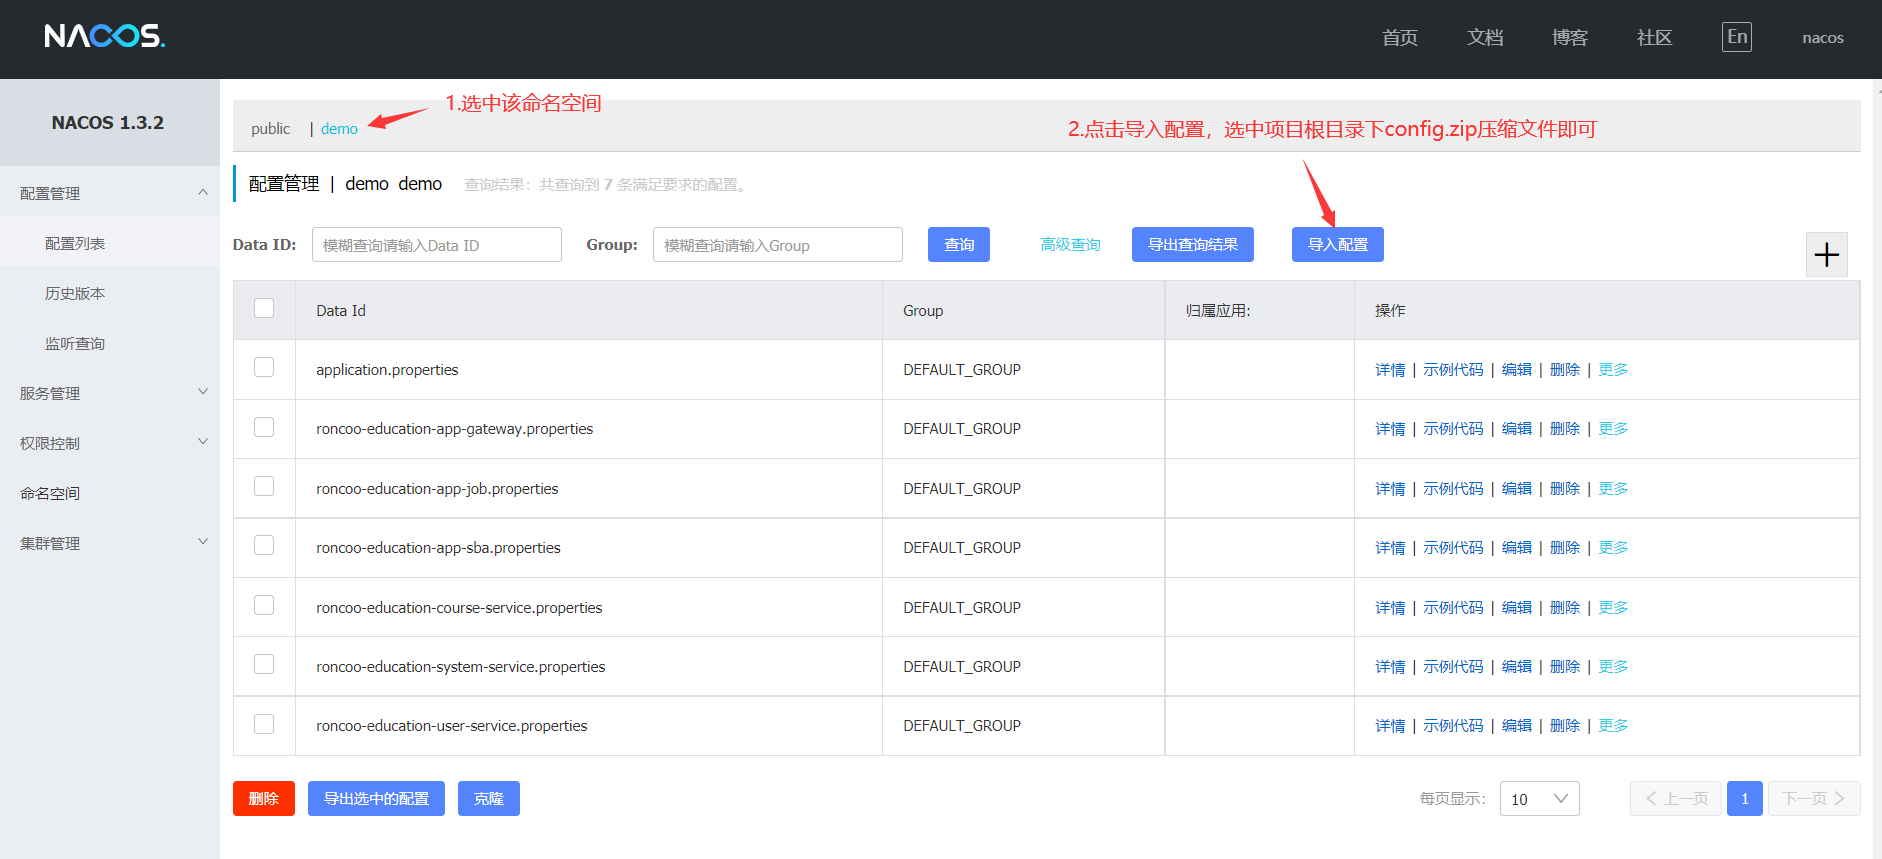
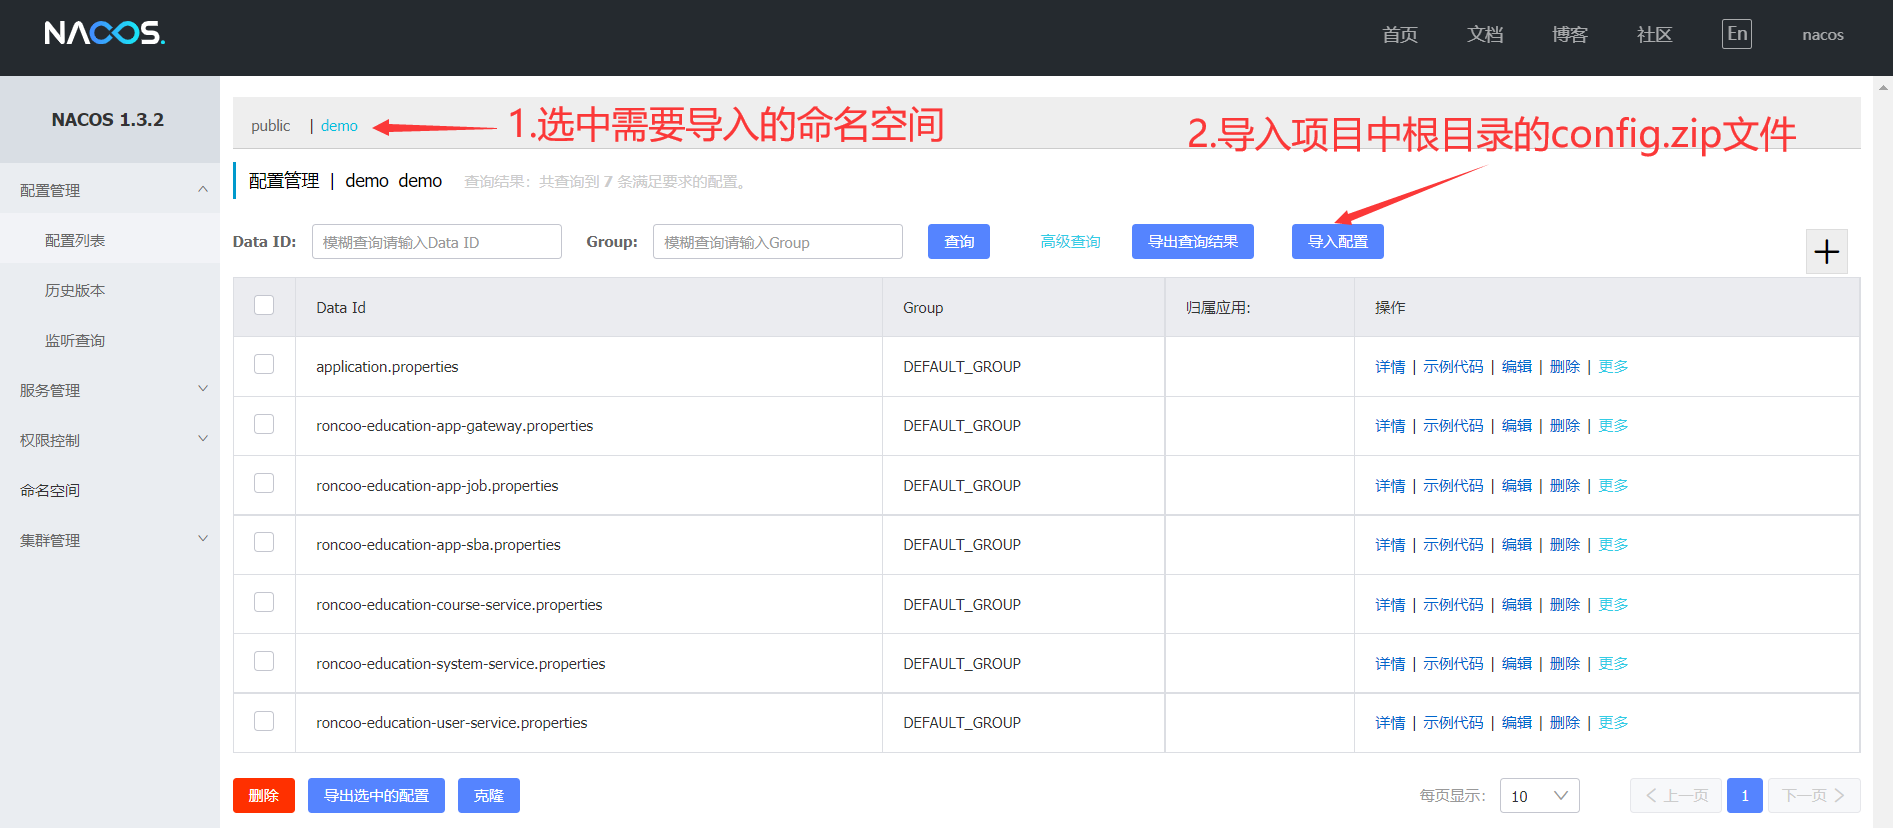
增加部署文档

diff --git a/docs/alibaba/deploy/README.md b/docs/alibaba/deploy/README.md
@@ -10,30 +10,50 @@
 |FastDFS | 6.06 | [FastDFS安装文档](https://blog.roncoo.com/article/1275251133292867586) |
 |Nacos | 1.3.2 | [Nacos安装文档](https://blog.roncoo.com/article/1275251133292867586) |
 
-## 本地运行
-### 导入配置
-#### 1. 登录Nacos管理后台
+## 注册配置中心
+### 1. 登录Nacos管理后台
 默认地址：http://localhost:8848/nacos 默认账号密码：nacos/nacos
 
-#### 2. 创建命名空间
+### 2. 创建命名空间
 <img :src="$withBase('/static/nacos.jpg')" alt="nacos命名空间">
 
 > 特别提醒：命名空间的ID应该设置与名称一致，方便记忆和使用。    
 > 应用关联的是命名空间ID，不是名称，不是名称，不是名称。
 
-#### 3. 导入配置
+### 3. 导入配置
 <img :src="$withBase('/static/nacos-config.jpg')" alt="nacos配置">
 
-> 导入之后需要修改对应的配置，例如数据库账号密码，密码需要先加密（加密方法在开发指南中有说明）
+> 导入之后需要修改对应的配置，例如数据库账号密码   
+> 密码需要先加密（加密方法在开发指南中有说明）
 
-### 导入项目
-#### 1.导入后端项目
+## 后端项目说明
+### 1.导入后端项目
 自行操作即可
 
-#### 2. 修改配置
+### 2. 修改配置
 <img :src="$withBase('/static/roncoo-education.jpg')" alt="项目配置">
 
-#### 3. 启动项目
+> 以roncoo-education-app-gateway为例，其他项目同理 
+
+### 3. 启动项目
 <img :src="$withBase('/static/roncoo-education-gateway.jpg')" alt="项目运行">
 
-> 其他项目同理运行即可
+> 全部启动完成，可以访问：http://localhost:5840
+
+## 前端项目说明
+### 1. 导入前端项目
+
+> 这里有2个前端项目，分别为：roncoo-education-admin 和 roncoo-education-web
+
+### 2. admin项目说明
+<img :src="$withBase('/static/roncoo-education-admin.jpg')" alt="项目运行">
+
+> 修改网关地址，直接启动即可：npm run dev (先要安装依赖：npm install)    
+> 若要部署到服务器，先要打包：npm run build 
+
+### 3. web项目说明
+<img :src="$withBase('/static/roncoo-education-web.jpg')" alt="项目运行">
+
+> 修改网关地址，直接启动即可：npm run dev (先要安装依赖：npm install)    
+> 若要部署到服务器，需要使用pm2来运行
+
